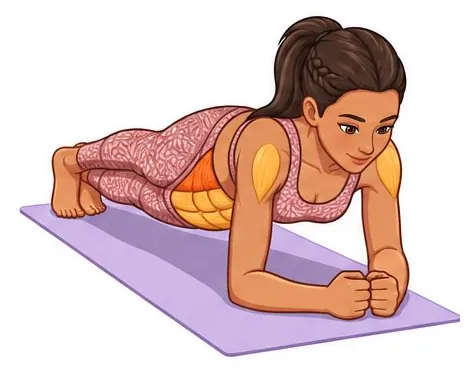
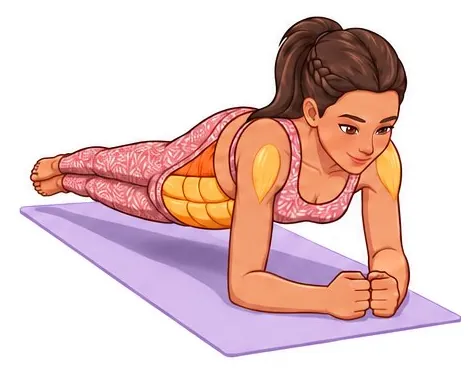
Hip dips en plancha: giro de cadera mucho más marcado (tiras mujer y hombre nuevas), flechas en las caderas, caché v1.15.1
Claude-Session: https://claude.ai/code/session_01LTdatG86hVzh7JFC7J2E3b

diff --git a/docs/data/anim.js b/docs/data/anim.js
@@ -3,6 +3,7 @@
 //   n:   número de fotogramas (iguales para ambos modelos).
 //   pos: fotograma (base 0) que corresponde a cada posición de MOVES[id].positions (por defecto: primero y último).
 //   loop: ciclo 1→…→n→1 (movimientos circulares) en vez de ida y vuelta.
+//   same: {fotograma: fotograma} → ese fotograma equivale a una posición (también pausa y marca la respiración).
 //   alt: nº de fotogramas de la tira B (img/anim/<f|m>/<id>-b-<k>.webp) de un movimiento alternante (dose.alternating): el otro brazo/pierna.
 // Los fotogramas intermedios se recorren con fundidos suaves; en las posiciones la animación se detiene un momento.
 export const ANIM = {
@@ -41,7 +42,7 @@ export const ANIM = {
   'kb-swing': { n: 5, pos: [0, 2], loop: true },
   'plank': { n: 4 },
   'side-plank-hip-dip': { n: 4, pos: [1, 3], loop: true },
-  'plank-hip-dip': { n: 4, pos: [0, 1], loop: true },
+  'plank-hip-dip': { n: 4, pos: [0, 1], loop: true, same: {"2": 0, "3": 1} },
   'side-plank-knee': { n: 4 },
   'bird-dog': { n: 4, alt: 4 },
   'curl-up': { n: 4 },

diff --git a/docs/data/arrows.js b/docs/data/arrows.js
@@ -188,8 +188,8 @@ export const ARROWS = {
     m: [[{"from":[0.456,0.77],"to":[0.227,0.633],"curve":-0.45}]],
   },
   'plank-hip-dip': {
-    f: [[{"from":[0.28,0.4],"to":[0.4,0.63],"curve":0.3}],[{"from":[0.58,0.42],"to":[0.42,0.63],"curve":-0.3}]],
-    m: [[{"from":[0.28,0.4],"to":[0.4,0.63],"curve":0.3}],[{"from":[0.58,0.42],"to":[0.42,0.63],"curve":-0.3}]],
+    f: [[{"from":[0.28,0.3],"to":[0.4,0.52],"curve":0.35}],[{"from":[0.52,0.3],"to":[0.38,0.5],"curve":-0.35}]],
+    m: [[{"from":[0.28,0.3],"to":[0.4,0.52],"curve":0.35}],[{"from":[0.52,0.3],"to":[0.38,0.5],"curve":-0.35}]],
   },
   'reverse-crunch': {
     f: [[{"from":[0.538,0.389],"to":[0.698,0.614],"curve":-0.12}]],

diff --git a/docs/sw.js b/docs/sw.js
@@ -1,6 +1,6 @@
 // Service worker: guarda la app en caché para que funcione sin internet.
 // IMPORTANTE: sube CACHE_VERSION cada vez que cambies archivos o imágenes.
-const CACHE_VERSION = 'ptw-v1.15.0';
+const CACHE_VERSION = 'ptw-v1.15.1';
 const CORE = [
   './', 'index.html', 'manifest.webmanifest', 'css/app.css',
   'js/app.js', 'js/engine.js', 'js/store.js', 'js/audio.js', 'js/icons.js', 'js/calories.js', 'js/progress.js',
